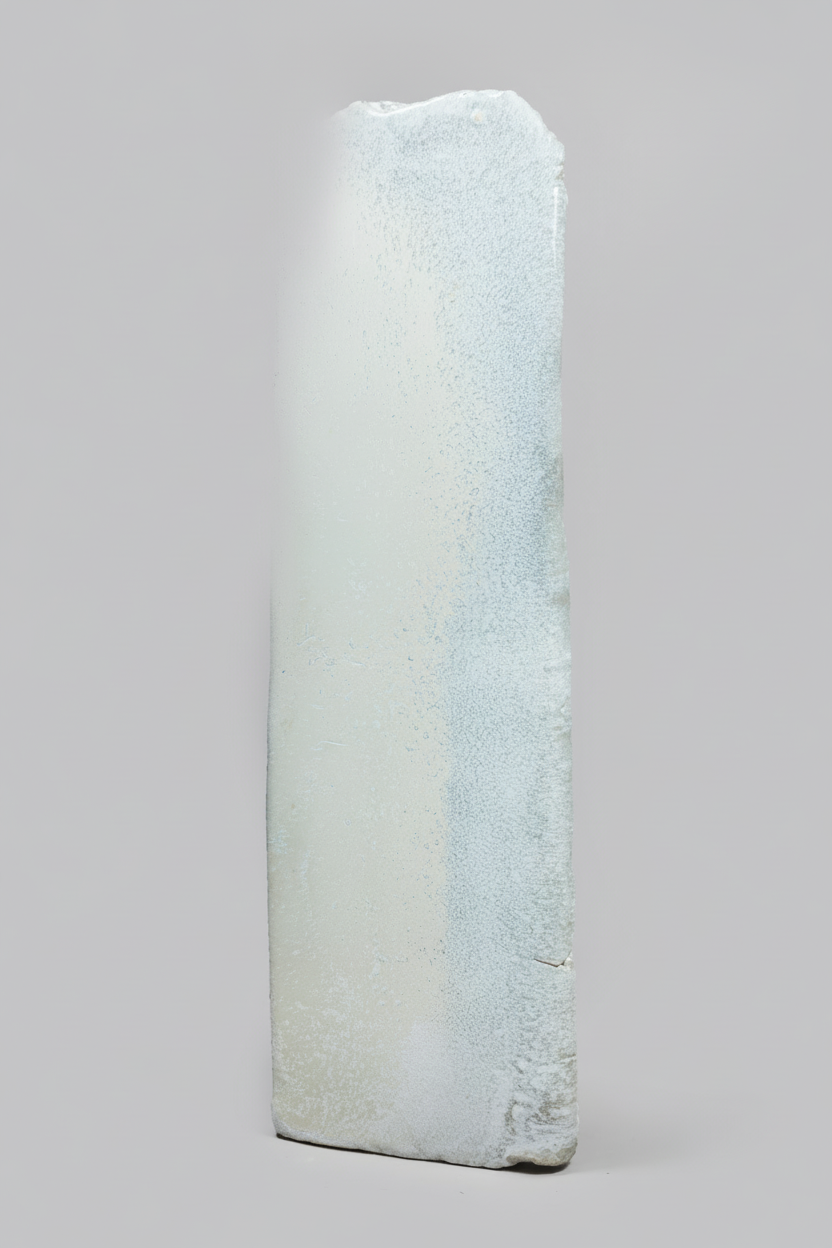
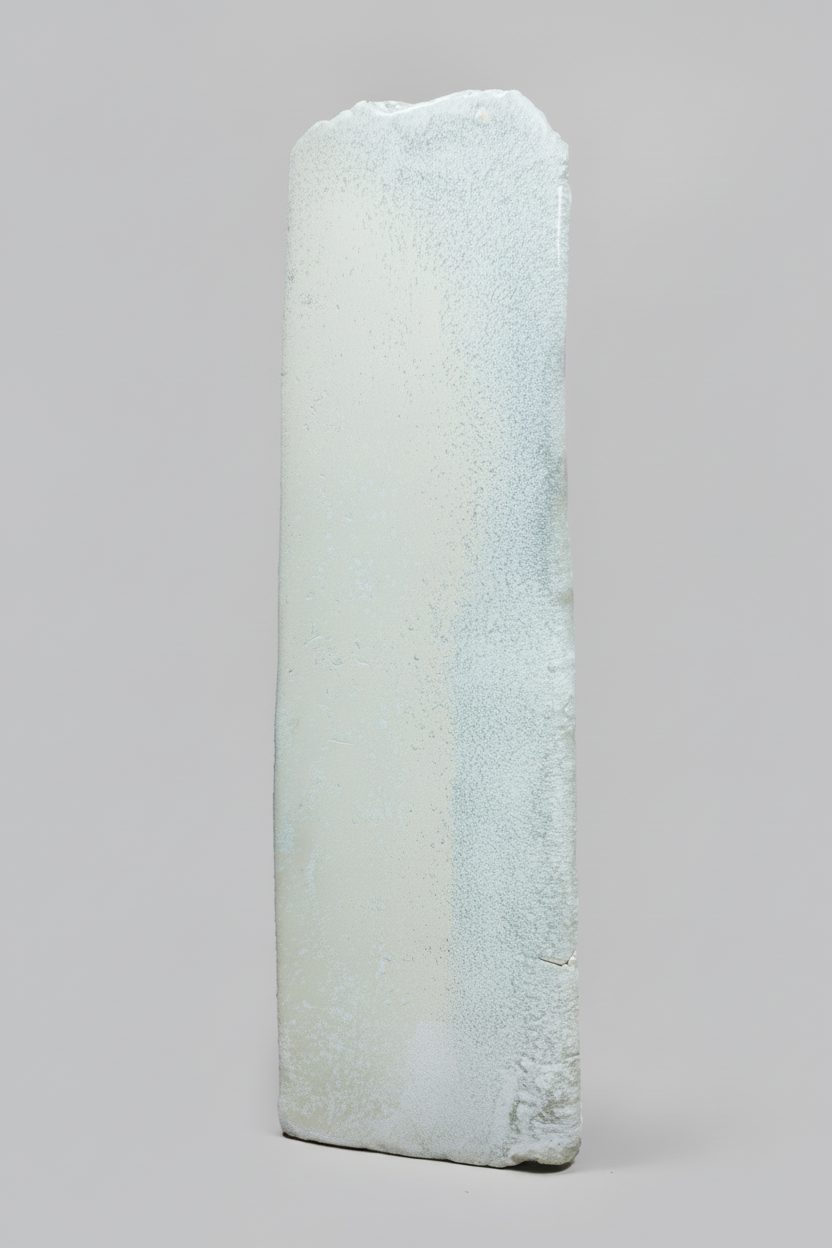
Changes

diff --git a/src/pages/Index.tsx b/src/pages/Index.tsx
@@ -279,12 +279,17 @@ const Index = () => {
                 allow="autoplay; fullscreen"
                 title="Vidéo enchères"
               />
-              <img 
-                src={heroCeramiqueVerticale}
-                alt="Céramique verticale"
-                className="h-full w-auto object-contain"
+              <div 
+                className="h-full overflow-hidden"
                 style={{ marginLeft: "5px" }}
-              />
+              >
+                <img 
+                  src={heroCeramiqueVerticale}
+                  alt="Céramique verticale"
+                  className="h-full w-auto object-cover object-right"
+                  style={{ marginLeft: "-42px" }}
+                />
+              </div>
             </div>
             {/* Groupe droite : céramique + sculpture */}
             <div className="flex items-end h-full">
